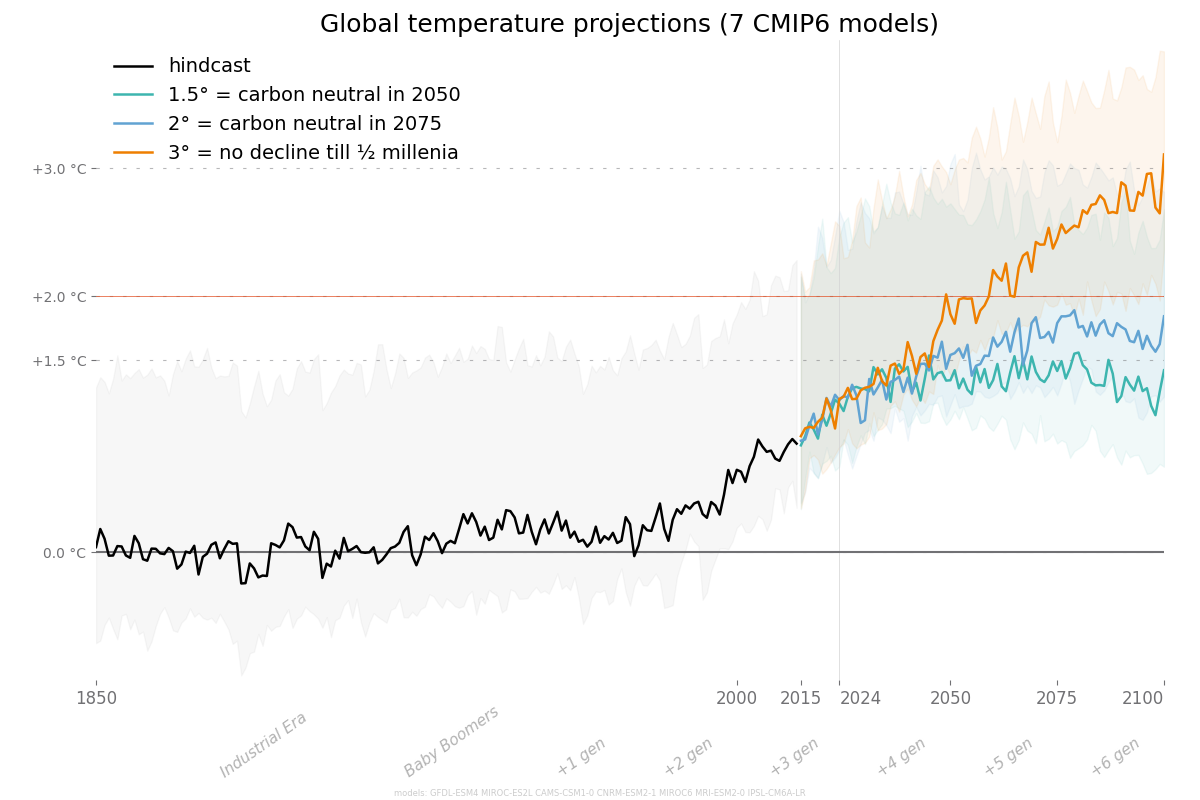
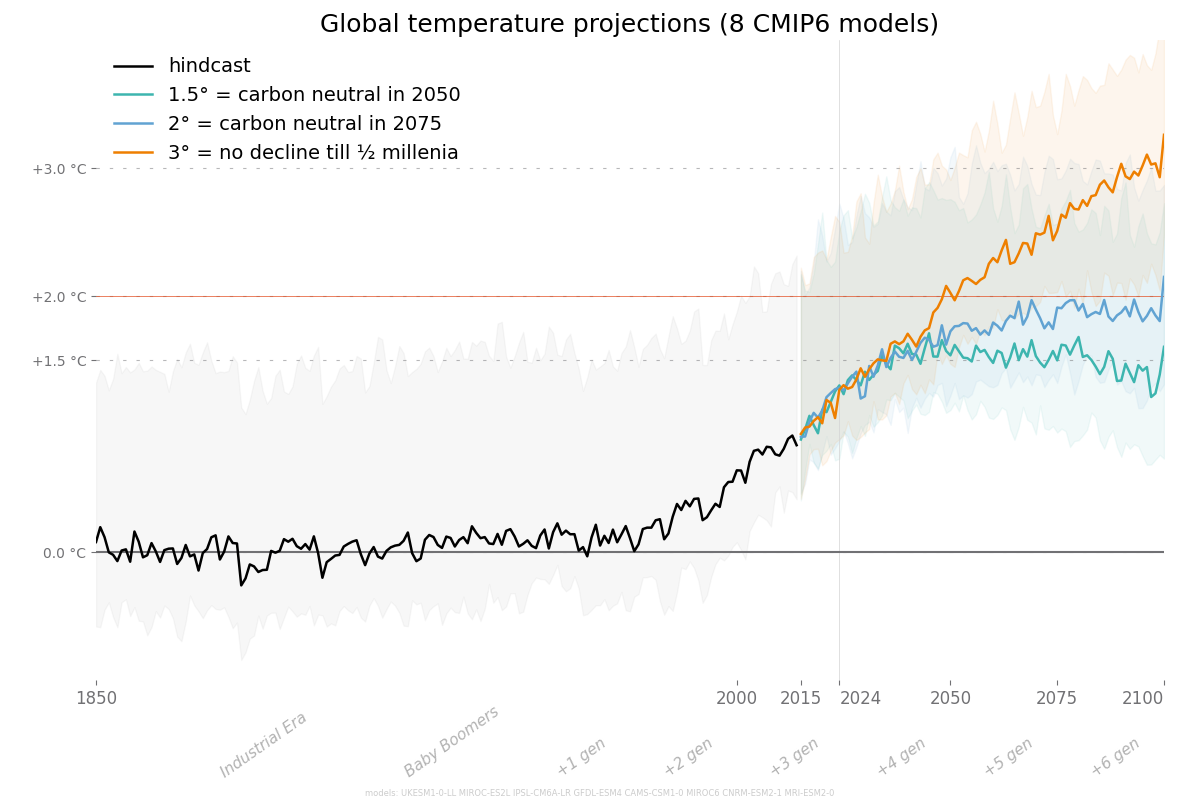
cleanup

diff --git a/ClimateProjections.py b/ClimateProjections.py
@@ -7,13 +7,10 @@
 # Data-sets: cds.climate.copernicus.eu/cdsapp#!/dataset/projections-cmip6 | Models list/search on: aims2.llnl.gov
 
 # TODO
-# unziping to different folders not to interfere
-# 1. Buckets median
-# 2. Include all from aims2.llnl.gov or just some variants from the family (e. g. High resolution and not Low): https://www.nature.com/articles/d41586-022-01192-2.epdf
-# 3. Dealing with hot models ECS>4.5: shade range in 2 transparencies? AFAIK there is no consensus on their probability: https://www.carbonbrief.org/cmip6-the-next-generation-of-climate-models-explained/
-# 4. aggregated models by state as series to show how big is the coverage of the models
+# 2. Include all models with either by best estimate of AR6 or TCR Screen (likely) 1.4-2.2º as guided on https://www.nature.com/articles/d41586-022-01192-2.epdf
+# 3. plot labels explaining the model slection or selections means(s) at 2100 to the right edge of the chart
 # 5. historical data (measurements from the constant set of stations normalized to the lastest, most complete set, to be independent on addtions)
-# 6. plot range of forecast to the right edge of the chart
+
 
 # WHAT
 reaggregate = False # compute aggregations regardles if they already exist
@@ -67,11 +64,11 @@ import traceback
 # UNCOMENT WHAT TO DOWNLOAD, COMPUTE AND VISUALIZE:
 
 def main():
-  GlobalTemperature()
-  #maxTemperature()
-  #tropicDaysBuckets()
+  return GlobalTemperature()
+  #return maxTemperature()
+  #return tropicDaysBuckets()
   
-  #discovery()
+  #return discovery() # with open('ClimateProjections.py', 'r') as f: exec(f.read())
 
 
 # VISUALIZATIONS
@@ -83,15 +80,18 @@ def GlobalTemperature():
   
   #models = md[variable]
   models = md["model_resolutions"].keys()
+
+  #models = set(); for s in md["by_states"].items(): models |= set(s[1])
+
   unavailable_experiments = downloader.download(models, experiments, DATADIR, mark_failing_scenarios=mark_failing_scenarios, forecast_from=forecast_from)
-  
   aggregate()
-  data = loadAggregated(models=models, experiments=experiments, unavailable_experiments=unavailable_experiments)
+  data = loadAggregated()
+  data = data['tas']
   data = cleanUpData(data)
   
-  data = models_with_all_experiments(data, drop_experiments=['ssp119'])
-  #data = models_with_all_experiments(data)
-  data = data['tas']
+  #data = models_with_all_experiments(data, drop_experiments=['ssp119'])
+  data = models_with_all_experiments(data)
+  
   quantile_ranges = quantiles(data, (.1, .5, .9))
 
   chart = visualizations.Charter(variable=variable, 
@@ -118,7 +118,7 @@ def maxTemperature():
   
   aggregate()
   
-  data = cleanUpData(loadAggregated(models))
+  data = cleanUpData(loadAggregated())
   data = data['tasmax']
   quantile_ranges = quantiles(data, (.1, .5, .9))
   maxes = {'Madrid': 35}
@@ -145,7 +145,7 @@ def tropicDaysBuckets():
   
   aggregate(stacked=True)
   
-  data = cleanUpData(loadAggregated(models))
+  data = cleanUpData(loadAggregated())
   model_count = len(set(data.model.values.flat))
   models = data.model.values.flat
   data = data.median(dim='model').max(dim='experiment')      
@@ -161,15 +161,22 @@ def tropicDaysBuckets():
 def discovery():
   variable = 'discovery'; global DATADIR; DATADIR = DATADIR + variable + '/'
   
-  #models = md["model_resolutions"].keys()
-  #models = ["GISS-E2-1-G", "CESM2-FV2", "E3SM-1-1", "E3SM-1-1-ECA", "AWI-ESM-1-1-LR", "MIROC-ES2H", "CMCC-ESM2", "KIOST-ESM", "CMCC-CM2-HR4", "IPSL-CM5A2-INCA", "EC-Earth3-CC", "EC-Earth3-Veg-LR", "EC-Earth3-AerChem"]
-  models = []
-  scenarios = ['ssp126']
-  downloader.download(models, scenarios, DATADIR, mark_failing_scenarios=mark_failing_scenarios, forecast_from=forecast_from)
+  scenarios = ['ssp245']
+  models = [
+  "E3SM-1-1"
+  ]
+  
+  downloader.download(models, scenarios, DATADIR, skip_failing_scenarios=False, mark_failing_scenarios=True, forecast_from=forecast_from)
   aggregate()
-  data = loadAggregated(models)
+  data = loadAggregated()
+  data = data['tas']
   chart = visualizations.Charter(variable=variable)
-  chart.plot(data, what={'experiment': scenarios})
+  #chart.plot(data, what={'experiment': None})
+  print(data)
+  quantile_ranges = quantiles(data, (.1, .5, .9))
+  print(quantile_ranges)
+  chart.plot(data, ranges=quantile_ranges, what='mean')
+  return data
 
 
 def history():
@@ -285,16 +292,16 @@ def aggregate(stacked=None):
 
 def loadAggregated(models=None, experiments=None, unavailable_experiments=None):
   print('Opening aggregations')
-
-  
-  data_ds = xr.open_mfdataset(f'{DATADIR}cmip6_agg_*.nc', combine='nested', concat_dim='model') # when problems with loading # data_ds = xr.open_mfdataset(f'{DATADIR}cmip6_agg_*.nc')
-  data_ds.load()
-  return data_ds
-
-  files_to_load = f'{DATADIR}cmip6_agg_*.nc'
-
-  data_ds = None
   try:
+    data_ds = None
+    data_ds = xr.open_mfdataset(f'{DATADIR}cmip6_agg_*.nc', combine='nested', concat_dim='model') # when problems with loading # data_ds = xr.open_mfdataset(f'{DATADIR}cmip6_agg_*.nc')
+    data_ds.load()
+    return data_ds
+
+    files_to_load = f'{DATADIR}cmip6_agg_*.nc'
+
+    
+  
     for i in glob(files_to_load):
         filename = os.path.abspath(i) # os.path.basename(i)
         print(filename)
@@ -307,12 +314,10 @@ def loadAggregated(models=None, experiments=None, unavailable_experiments=None):
             data_ds = xr.combine_nested([data_ds, new_ds], concat_dim=['model'])
 
   except Exception as e: 
-    print(f"Error in {filename}: {type(e).__name__}: {e}"); 
-    traceback.print_exc()
-    print(data_ds)
-    print(new_ds)
+    print(f"Error: {type(e).__name__}: {e}"); 
+    traceback.print_exc(limit=1)
 
-  not_read = set(models)-set(data_ds.model.values.flat)
+  not_read = set(models)-set(data_ds.model.values.flat) if data_ds else print("Nothing read at all")
   if not_read: print("\nNOT read: '" + ' '.join(map(str, not_read)) +"'")
 
   #print(len(set(data_ds.sel(experiment='ssp126').model.values.flat)))
@@ -342,8 +347,11 @@ def models_with_all_experiments(data, drop_experiments=None):
   if drop_experiments:
     data = data.sel(experiment =~ data.experiment.isin(drop_experiments))
 
+  experiments = set(data.experiment.values.flat)
+  experiments = experiments - {'historical'} 
   availability = []
-  for experiment in set(data.experiment.values.flat):
+  for experiment in experiments:
+
     available = set(data.sel(experiment=experiment).dropna(dim='model', how='all').model.values)
     availability.append(available)
     #print(experiment)
@@ -373,6 +381,6 @@ md = util.loadMD('model_md')
 
 # RUN the function defined in the 'run' at the top
 try:
-  main()
+  result = main()
   #result = globals()[run]()
-except Exception as e: print(f"\nError: {type(e).__name__}: {e}"); traceback.print_exc()#limit=1)
+except Exception as e: print(f"\nError: {type(e).__name__}: {e}"); traceback.print_exc(limit=1)

diff --git a/visualizations.py b/visualizations.py
@@ -110,25 +110,31 @@ class Charter:
           try:
             alpha=0.03 if legend[i] == 'hindcast' else 0.07
             for line in ranges[1:-1]:
-              ax.plot(data.year, line[i,:], color=f'{colors[i%len(colors)]}', label=f'{legend[i]}', linewidth=1.8)
+              ax.plot(
+                data.year, 
+                line[i,:], 
+                color=f'{colors[i%len(colors)]}', label=f'{legend[i]}', linewidth=1.8)
             ax.fill_between(data.year, ranges[0][i,:], ranges[-1][i,:], alpha=alpha, color=f'{colors[i]}')
           except Exception as e: print(f"Error in {legend[i]}: {type(e).__name__}: {e}"); traceback.print_exc(limit=1)
       else:
         years = data.coords['year'].values
         legend = data.model.values
-        
+
         if len(self.models)<len(data.model.values):
           data = data.groupby('model').mean()
-
+        
         dimension = list(what.keys())[0]
-        data = data.where(data[dimension] == what[dimension], drop=True)
+        if dimension:
+          data = data.where(data[dimension] == what[dimension], drop=True)
 
         for i, model in enumerate(data.coords['model'].values):
           try:
             model_data = data.sel(model=model, drop=True)
-            
+
             # making it robust to inconsistencies in the data
-            model_data = model_data[list(data.data_vars)[0] ].squeeze()
+            try:
+              model_data = model_data[list(data.data_vars)[0] ].squeeze()
+            except: pass
             model_data = model_data.dropna(dim='year') 
             aligned_years = model_data.coords['year'].values  
 
@@ -139,7 +145,7 @@ class Charter:
 
           except Exception as e: 
             if len(model_data.values)==0:
-              print(f'No data for {what[dimension]} in {model}')
+              print(f'No data for {what[dimension]} in {model}'); traceback.print_exc(limit=1)
             else:
               print(f"Error in {model}: {type(e).__name__}: {e}"); traceback.print_exc(limit=1)
               print(data)
@@ -150,6 +156,8 @@ class Charter:
       self.save()
     
     except Exception as e: print(f"Visualization\nError: {type(e).__name__}: {e}"); traceback.print_exc(limit=1)
+
+
 
   def _xaxis_climatic(self, ax, marker=None):
     current_year = datetime.datetime.now().year

diff --git a/downloader.py b/downloader.py
@@ -23,7 +23,8 @@ def metadata(models, experiments, date=2014):
       print(data['experiments'])
       print(data['date_ranges'])
 
-def download(models, experiments, DATADIR, variable='near_surface_air_temperature', frequency='monthly', area=None, mark_failing_scenarios=False, forecast_from=2015): # WIP
+
+def download(models, experiments, DATADIR, variable='near_surface_air_temperature', frequency='monthly', area=None, mark_failing_scenarios=False, skip_failing_scenarios=True, forecast_from=2015): # WIP
   unavailable_experiments = status['unavailable_experiments'][variable]  
 
   separator = '='*60
@@ -39,7 +40,7 @@ def download(models, experiments, DATADIR, variable='near_surface_air_temperatur
 
     date = f'{start}-01-01/{till}-12-31'
     for model in models:
-      if experiment not in unavailable_experiments or not (model in unavailable_experiments[experiment]):          
+      if not skip_failing_scenarios or (experiment not in unavailable_experiments or not (model in unavailable_experiments[experiment])):
         try:
           filename = f'{DATADIR}cmip6_monthly_{start}-{till}_{experiment}_{model}.zip'
           if not os.path.isfile(filename):

diff --git a/util.py b/util.py
@@ -1,5 +1,6 @@
 import json
 import zipfile
+import os
 import traceback
 
 def snippet():
@@ -24,6 +25,11 @@ def unzip(filename, DATADIR):
   print(f"UNZIPPPING {filename} {DATADIR}")
   with zipfile.ZipFile(filename, 'r') as zip_ref:
     zip_ref.extractall(DATADIR)
+
+def unzipAll(DATADIR):
+  for filename in os.listdir(DATADIR):
+    if f'{DATADIR}filename'.endswith('.zip'):
+      unzip(filename, DATADIR)
 
 def debug(msg, e, limit=1):
   print(f"Error in {filename}: {type(e).__name__}: {e}"); traceback.print_exc(limit=limit)

diff --git a/README.md b/README.md
@@ -5,7 +5,7 @@ Projections of global temperature or local max temperature according to CMIP IPC
 Coupled Model Intercompari-son Project, phase 6 (CMIP6), run by the World Climate Research Programme
 
 Thare are currently 46 models available (mid 2024). 
-- 31 models have both ssp126 and ssp245 
+- 28 models have both ssp126 and ssp245 
 - 8 models have ssp119, ssp126 and ssp245 
 
 
